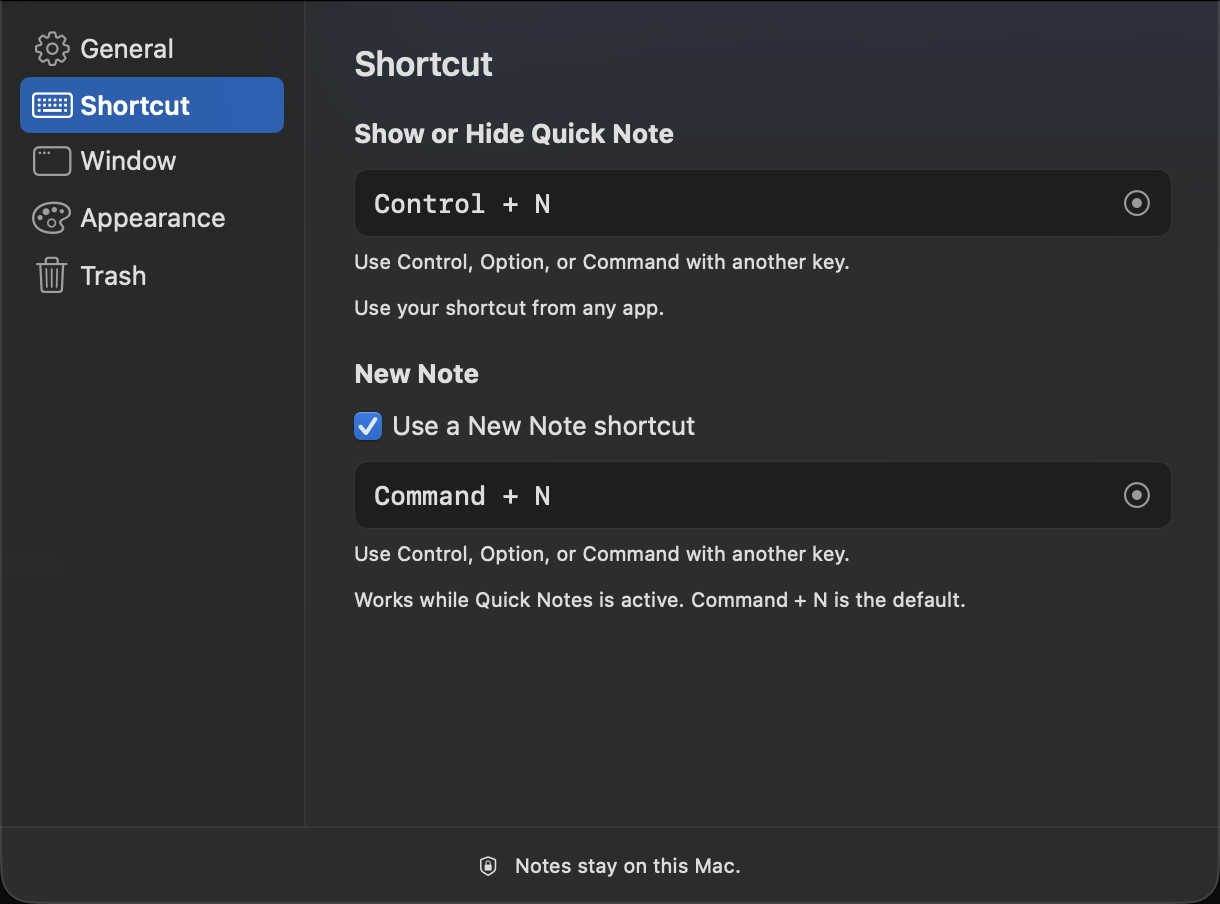
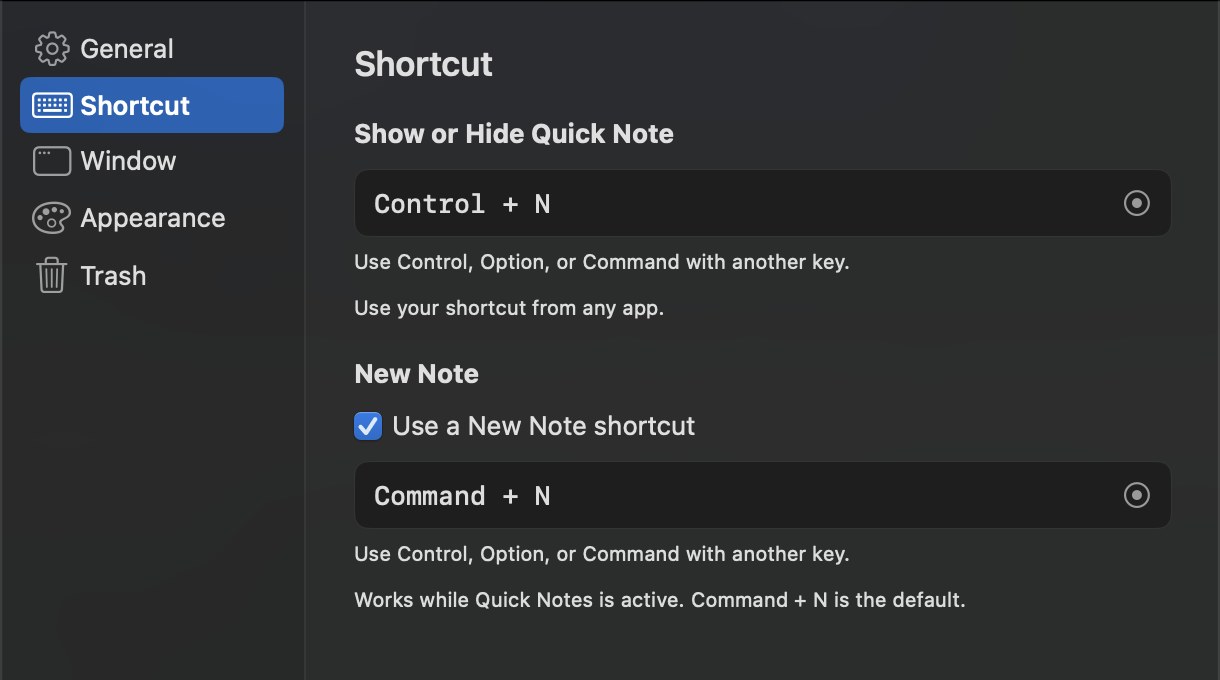
Add privacy-safe desktop preview and align README screenshots

diff --git a/README.md b/README.md
@@ -5,11 +5,17 @@
 Quick Notes keeps a note close while you work. Open the floating window from the menu bar or with your own keyboard shortcut, write something down, then hide it and carry on. Your notes save automatically on your Mac.
 
 <p>
-  <img src="docs/screenshots/compact.png" alt="Quick Notes in its compact window with a sample note titled Ideas" width="260">
-  <img src="docs/screenshots/wide.png" alt="Quick Notes in a wider window with a sample note titled Bigger ideas" width="390">
+  <img src="docs/screenshots/compact.png" alt="Quick Notes in its compact window with a sample note titled Ideas" width="300">
+  <img src="docs/screenshots/wide.png" alt="Quick Notes in a wider window with a sample note titled Bigger ideas" width="350">
 </p>
 
 *Two examples of the same window. Resize it freely, from a compact note to a roomy writing space that fits your screen.*
+
+## On your desktop
+
+<img src="docs/screenshots/desktop-preview.jpg" alt="Quick Notes floating over a clean dark desktop with the sample Ideas note" width="850">
+
+*A privacy-safe desktop preview based on a real Quick Notes capture. The background is illustrative and contains no personal desktop content.*
 
 ## What it does
 
@@ -25,7 +31,7 @@ Quick Notes keeps a note close while you work. Open the floating window from the
 
 *Use the Aa menu for text styles, highlighting, lists, alignment, and font size. This sample shows a title, mint highlight, checklist, and italic text.*
 
-<img src="docs/screenshots/compact-bar.png" alt="Quick Notes folded into a floating bar" width="136">
+<img src="docs/screenshots/compact-bar.png" alt="Quick Notes folded into a floating bar" width="180">
 
 *Double-click the header to tuck the note away; double-click the bar to bring it back.*
 
@@ -36,8 +42,8 @@ Quick Notes keeps a note close while you work. Open the floating window from the
 ## Light and dark
 
 <p>
-  <img src="docs/screenshots/light.png" alt="The same Ideas note in Quick Notes light appearance" width="260">
-  <img src="docs/screenshots/dark.png" alt="The same Ideas note in Quick Notes dark appearance" width="260">
+  <img src="docs/screenshots/light.png" alt="The same Ideas note in Quick Notes light appearance" width="300">
+  <img src="docs/screenshots/dark.png" alt="The same Ideas note in Quick Notes dark appearance" width="300">
 </p>
 
 *The same note in both appearances. Quick Notes can follow your Mac automatically, or you can select Light or Dark in Settings → Appearance.*
